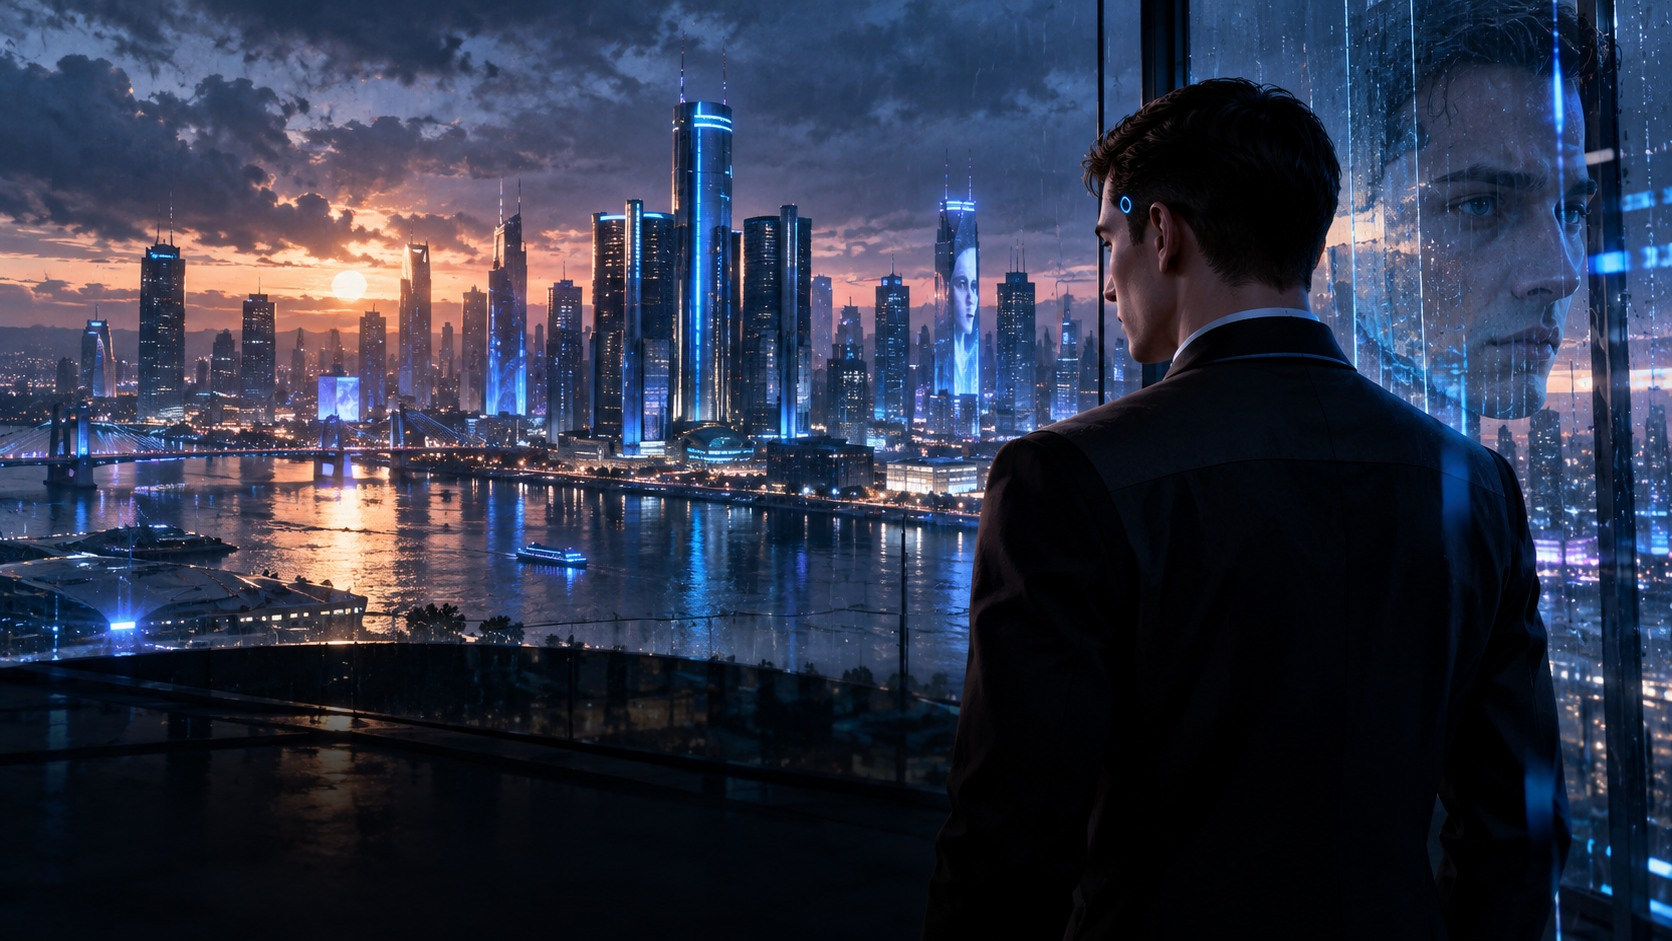
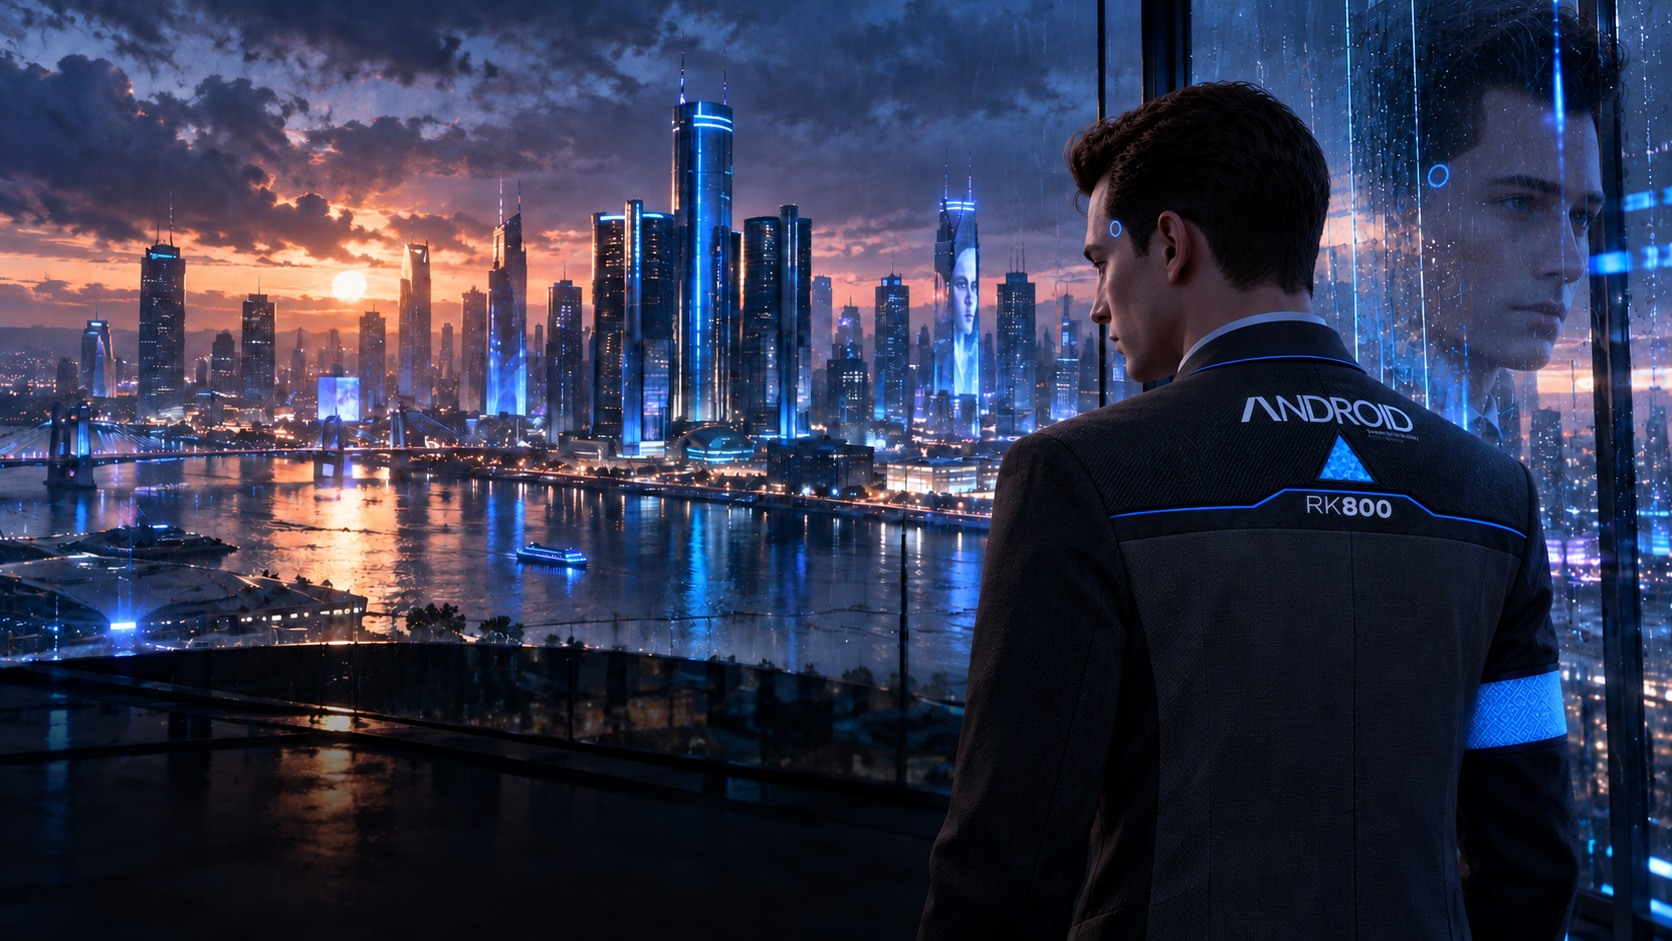
Restore plain profile headers and refine Classic and Connor artwork

diff --git a/bot.py b/bot.py
@@ -13432,7 +13432,17 @@ async def make_profile_card_file(user_id, display_name, avatar_url=None, theme_o
     return profile, discord.File(BytesIO(data), filename=filename)
 
 
-async def make_profile_embed(user_id, display_name, member=None):
+def profile_message_header(profile, display_name):
+    badge = str(profile.get("active_badge") or "")
+    name = discord.utils.escape_mentions(discord.utils.escape_markdown(str(profile.get("name") or display_name)))
+    return (
+        f"{badge + ' ' if badge else ''}**{name}**\n"
+        f"🪙 **{_profile_amount_exact(profile.get('coins', 0))} coins** · "
+        f"⭐ **{_profile_amount_exact(profile.get('points', 0))} points**"
+    )
+
+
+async def make_profile_embed(user_id, display_name, member=None, profile=None):
     avatar_url = None
     if member is not None:
         try:
@@ -13442,19 +13452,10 @@ async def make_profile_embed(user_id, display_name, member=None):
                 avatar_url = member.display_avatar.url
             except Exception:
                 avatar_url = None
-    profile, file = await make_profile_card_file(user_id, display_name, avatar_url=avatar_url)
+    profile, file = await make_profile_card_file(user_id, display_name, avatar_url=avatar_url, profile=profile)
     theme_key = str(profile.get("active_profile_theme", "classic") or "classic").casefold()
     theme = PROFILE_THEMES.get(theme_key, PROFILE_THEMES["classic"])
-    badge = str(profile.get("active_badge") or "")
-    title_name = profile.get("name", display_name)
-    embed = discord.Embed(
-        title=f"{badge + ' ' if badge else ''}{title_name}",
-        description="Public stats and collection showcase.",
-        color=int(theme["embed_color"]),
-    )
-    from pet_ui import user_collection_summary
-    pet_summary = await asyncio.to_thread(user_collection_summary, user_id)
-    embed.add_field(name="🐾 Pets", value=pet_summary, inline=False)
+    embed = discord.Embed(color=int(theme["embed_color"]))
     embed.set_image(url=f"attachment://{file.filename}" if file is not None else "attachment://profile_card.png")
     if member is not None:
         try:
@@ -13469,11 +13470,12 @@ async def make_profile_embed(user_id, display_name, member=None):
 async def slash_profile(interaction: discord.Interaction, user: discord.User = None):
     target = user or interaction.user
     await interaction.response.defer()
-    embed, file = await make_profile_embed(target.id, target.display_name, member=target)
     profile = await asyncio.to_thread(get_cosmetic_profile, target.id, target.display_name)
+    embed, file = await make_profile_embed(target.id, target.display_name, member=target, profile=profile)
     view = CosmeticProfileView(interaction.user.id, target.id, target.display_name,
                                editable=target.id == interaction.user.id, profile=profile)
-    await interaction.followup.send(embed=embed, file=file, view=view, allowed_mentions=discord.AllowedMentions.none())
+    await interaction.followup.send(content=profile_message_header(profile, target.display_name), embed=embed,
+                                    file=file, view=view, allowed_mentions=discord.AllowedMentions.none())
 
 
 @command_tree.command(name="pet", description="View your active pet or another player's pet")
@@ -13496,13 +13498,11 @@ async def send_profile_card(channel, viewer, target_user_id, target_name, editab
             member = await channel.guild.fetch_member(int(target_user_id))
     except Exception:
         member = None
-    embed, file = await make_profile_embed(target_user_id, target_name, member=member)
-    try:
-        profile = await asyncio.to_thread(get_cosmetic_profile, target_user_id, target_name)
-    except Exception:
-        profile = None
+    profile = await asyncio.to_thread(get_cosmetic_profile, target_user_id, target_name)
+    embed, file = await make_profile_embed(target_user_id, target_name, member=member, profile=profile)
     view = CosmeticProfileView(viewer.id, target_user_id, target_name, editable=editable, profile=profile)
-    return await channel.send(embed=embed, file=file, view=view, allowed_mentions=discord.AllowedMentions.none())
+    return await channel.send(content=profile_message_header(profile, target_name), embed=embed, file=file,
+                              view=view, allowed_mentions=discord.AllowedMentions.none())
 
 
 class CosmeticProfileView(discord.ui.View):
@@ -17758,16 +17758,17 @@ class ShopHomeView(discord.ui.View):
     @discord.ui.button(label="My Profile", emoji="👤", style=discord.ButtonStyle.secondary, row=1)
     async def profile(self, interaction, button):
         await interaction.response.defer(ephemeral=True)
+        profile = await asyncio.to_thread(get_cosmetic_profile, interaction.user.id, interaction.user.display_name)
         embed, file = await make_profile_embed(
             interaction.user.id,
             interaction.user.display_name,
             member=interaction.user,
+            profile=profile,
         )
-        profile = await asyncio.to_thread(get_cosmetic_profile, interaction.user.id, interaction.user.display_name)
         await interaction.followup.send(
-            embed=embed, file=file,
+            content=profile_message_header(profile, interaction.user.display_name), embed=embed, file=file,
             view=CosmeticProfileView(interaction.user.id, interaction.user.id, interaction.user.display_name, editable=True, profile=profile),
-            ephemeral=True,
+            ephemeral=True, allowed_mentions=discord.AllowedMentions.none(),
         )
 
 
@@ -17996,16 +17997,17 @@ class MainMenuView(discord.ui.View):
     @discord.ui.button(label="Profile", emoji="👤", style=discord.ButtonStyle.secondary, row=1)
     async def profile(self, interaction, button):
         await interaction.response.defer(ephemeral=True)
+        profile = await asyncio.to_thread(get_cosmetic_profile, interaction.user.id, interaction.user.display_name)
         embed, file = await make_profile_embed(
             interaction.user.id,
             interaction.user.display_name,
             member=interaction.user,
+            profile=profile,
         )
-        profile = await asyncio.to_thread(get_cosmetic_profile, interaction.user.id, interaction.user.display_name)
         await interaction.followup.send(
-            embed=embed, file=file,
+            content=profile_message_header(profile, interaction.user.display_name), embed=embed, file=file,
             view=CosmeticProfileView(interaction.user.id, interaction.user.id, interaction.user.display_name, editable=True, profile=profile),
-            ephemeral=True,
+            ephemeral=True, allowed_mentions=discord.AllowedMentions.none(),
         )
 
     @discord.ui.button(label="Shop", emoji="🛒", style=discord.ButtonStyle.secondary, row=1)

diff --git a/showcase_cards.py b/showcase_cards.py
@@ -60,11 +60,12 @@ def profile_svg(theme_label, background, accent, soft, scene, overlay, stats, ic
     style = style or os.getenv('SHARKBOT_PROFILE_CARD_STYLE', 'cinematic')
     if style == 'showcase-v1':
         return profile_svg_v1(theme_label, background, accent, soft, scene, overlay, stats, icon)
-    from profile_theme_art import image_uri
+    from profile_theme_art import image_uri, catalog as theme_art_catalog
     if theme_key is None:
         from shop_catalog import PROFILE_THEMES
         theme_key = next(key for key, item in PROFILE_THEMES.items() if item['label'] == theme_label)
     artwork_uri = image_uri(theme_key)
+    art_height = int(theme_art_catalog()[theme_key].get("art_height", 820))
     tiles = []
     for i, (label, value, kind) in enumerate(stats):
         x, y = 32 + (i % 4) * 288, 452 + (i // 4) * 172
@@ -84,7 +85,7 @@ def profile_svg(theme_label, background, accent, soft, scene, overlay, stats, ic
     <linearGradient id="cinemaVeil" x1="0" y1="0" x2="0" y2="1"><stop offset="0" stop-color="#050b15" stop-opacity="0"/><stop offset=".43" stop-color="#050b15" stop-opacity=".02"/><stop offset=".57" stop-color="#050b15" stop-opacity=".76"/><stop offset=".78" stop-color="#050b15" stop-opacity=".93"/><stop offset="1" stop-color="#050b15"/></linearGradient>
     <linearGradient id="cinemaTile" x1="0" y1="0" x2="0" y2="1"><stop stop-color="#101b2b" stop-opacity=".93"/><stop offset="1" stop-color="#08101e" stop-opacity=".96"/></linearGradient>
     </defs><g clip-path="url(#cinemaEdge)"><rect width="1200" height="820" fill="#050b15"/>
-    <image href="{artwork_uri}" x="0" y="0" width="1200" height="820" preserveAspectRatio="xMidYMin slice"/>
+    <image href="{artwork_uri}" x="0" y="0" width="1200" height="{art_height}" preserveAspectRatio="xMidYMin slice"/>
     <rect width="1200" height="820" fill="url(#cinemaVeil)"/>
     <rect x="{badge_x}" y="28" width="{badge_width}" height="44" rx="22" fill="#07111f" fill-opacity=".83" stroke="{accent}" stroke-opacity=".58"/>
     <circle cx="{badge_x+23}" cy="50" r="4" fill="{accent}"/>{text(badge_x+40,57,theme_label,18,'#f4f7ff',600)}

diff --git a/test_daily_events_and_pet_navigation.py b/test_daily_events_and_pet_navigation.py
@@ -103,10 +103,15 @@ class PetNavigation(unittest.IsolatedAsyncioTestCase):
         self.assertTrue(all(getattr(item, 'label', '') in {'Refresh collection', 'Memorial'} for item in view.children))
         view.stop()
 
-    async def test_profile_embed_shows_real_collection_summary(self):
-        with patch.object(bot, 'make_profile_card_file', AsyncMock(return_value=({}, None))), patch.object(pet_ui, 'user_collection_summary', return_value='2 living pets · Active: Buddy'):
+    async def test_profile_header_is_plain_text_and_collection_stays_behind_button(self):
+        with patch.object(bot, 'make_profile_card_file', AsyncMock(return_value=({'name': 'Shark', 'active_badge': '🦈', 'coins': 12.5, 'points': 34.125}, None))), patch.object(pet_ui, 'user_collection_summary') as summary:
             embed, file = await bot.make_profile_embed(42, 'Shark')
-        self.assertEqual(next(field.value for field in embed.fields if field.name == '🐾 Pets'), '2 living pets · Active: Buddy')
+        self.assertIsNone(embed.title)
+        self.assertIsNone(embed.description)
+        self.assertEqual(len(embed.fields), 0)
+        summary.assert_not_called()
+        header = bot.profile_message_header({'name': 'Shark', 'active_badge': '🦈', 'coins': 12.5, 'points': 34.125}, 'Fallback')
+        self.assertEqual(header, '🦈 **Shark**\n🪙 **12,5 coins** · ⭐ **34,13 points**')
 
     def test_summary_does_not_reveal_an_egg(self):
         egg = {'id': 'egg', 'species': 'Dragon', 'rarity': 'legendary', 'xp': 0}

diff --git a/test_showcase_cards.py b/test_showcase_cards.py
@@ -146,10 +146,11 @@ class ShowcaseNavigation(unittest.IsolatedAsyncioTestCase):
             self.assertEqual(command.parameters[0].name,'user')
             self.assertEqual(command.parameters[0].type,discord.AppCommandOptionType.user)
         ctx=interaction();target=SimpleNamespace(id=99,display_name='Player')
-        with patch.object(bot,'make_profile_embed',AsyncMock(return_value=(discord.Embed(),None))), patch.object(bot,'get_cosmetic_profile',return_value={}):
+        with patch.object(bot,'make_profile_embed',AsyncMock(return_value=(discord.Embed(),None))), patch.object(bot,'get_cosmetic_profile',return_value={'name':'Player','active_badge':'🦈','coins':125,'points':37}):
             await bot.slash_profile.callback(ctx,target)
         view=ctx.followup.send.call_args.kwargs['view']
         self.assertEqual(view.target_user_id,'99')
+        self.assertEqual(ctx.followup.send.call_args.kwargs['content'], '🦈 **Player**\n🪙 **125 coins** · ⭐ **37 points**')
         self.assertFalse(view.editable)
         view.stop()
         for command in (bot.slash_pet,bot.slash_pets):

diff --git a/assets/profile_themes/README.md b/assets/profile_themes/README.md
@@ -4,11 +4,13 @@ These are original generated game-inspired/environmental illustrations, stored l
 
 Art direction:
 
+- **Classic:** restrained navy backdrop with a faint board and simple white chess pieces; deliberately basic free default.
+
 - **Stray:** orange backpack-wearing cat overlooking a neon-lit, rain-soaked robot city.
 - **Killer Frequency:** late-night 1987 radio studio, microphone, mixing desk, and a glowing **ON AIR** sign.
 - **Fears to Fathom:** isolated suburban home at night, a lit window, and unsettling environmental shadows.
 - **Shadows of Doubt:** a rainy voxel city and noir private investigator.
-- **Detroit: Become Human:** an original android with a blue temple LED and a futuristic city; no actor likeness.
+- **Detroit: Become Human:** Connor in his recognizable RK800 uniform, with a blue temple LED and matching reflected face overlooking the futuristic city.
 - **Counter-Strike 2:** a warm sandstone tactical courtyard and original helmeted operators.
 - **Firewatch:** Wyoming wilderness, warm layered mountains, and a fire lookout tower.
 - **Heavy Rain:** folded paper origami bird, dark city rain, and psychological thriller atmosphere.
@@ -18,3 +20,5 @@ Art direction:
 The game references were checked against the official Steam descriptions for [Stray](https://store.steampowered.com/app/1332010/), [Killer Frequency](https://store.steampowered.com/app/1903620/), [Fears to Fathom](https://store.steampowered.com/app/1671340/), [Shadows of Doubt](https://store.steampowered.com/app/986130/), [Detroit: Become Human](https://store.steampowered.com/app/1222140/), [Firewatch](https://store.steampowered.com/app/383870/) and [Heavy Rain](https://store.steampowered.com/app/960910/). These images are new illustrations rather than downloaded game screenshots.
 
 For replacements, retain the existing keys and use a high-quality wide illustration at least 1200 × 675 pixels. Place key subjects in the upper middle/right region so they remain visible above the stat panels. The renderer caches local asset data and card bytes until the worker restarts; asset changes trigger the Daily Puzzle workflow and offline asset validation. No network access is required for profile backgrounds.
+
+Classic and Detroit use `art_height: 675` in the catalogue to preserve the full illustration width, including both default chess pieces and Connor's reflection. Other theme framing is unchanged. Connor's appearance and RK800 jacket were checked against the official Steam promotional screenshots. The earlier cinematic Classic/Detroit images remain available in commit `bbba94b7d3517b5bcb8850b882440e622fd4ea2b`.

diff --git a/docs/showcase-cards.md b/docs/showcase-cards.md
@@ -2,6 +2,8 @@
 
 The default profile design uses a full cinematic illustration for each of the 21 themes. Only the theme badge remains above the eight-stat dashboard: no brand header, slogans, repeated name or Discord avatar. Stat icons are 62 px instead of 24 px; labels and values remain clear against dark panels. Profile images use compact JPEG attachments with theme/content-specific names, and immutable render bytes are cached. No background is downloaded while a Discord interaction is running.
 
+The chosen emoji, player name, coins and points appear as ordinary message text above the image embed. The embed has no showcase description or collection summary; **View Pets** opens the collection. This applies to prefix commands, slash commands and the Shop/Menu profile buttons.
+
 Pets use original SVG illustrations in `assets/pets/`. Each species file contains `Baby`, `Young`, `Adult`, and `Evolved` groups in a 400 × 350 canvas. `catalog.json` defines the asset, colors and habitat. Replace these files to improve the artwork without changing care, economy, progression or persistence. The renderer is in `showcase_cards.py`. Unhatched eggs never select species artwork or disclose rarity.
 
 `!profile [name or @user]`, `!pet [name or @user]`, and `!pets [name or @user]` support public browsing. `/profile`, `/pet`, and `/pets` expose optional Discord `user` selectors. The profile's **View Pets** button and collection selector retain the viewed user's identity. Other players' pets have only read-only collection and memorial controls.
